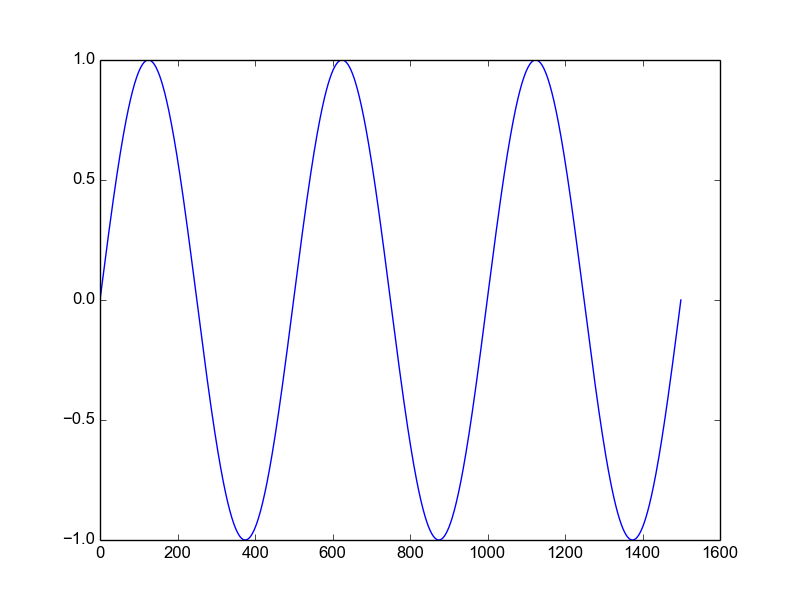
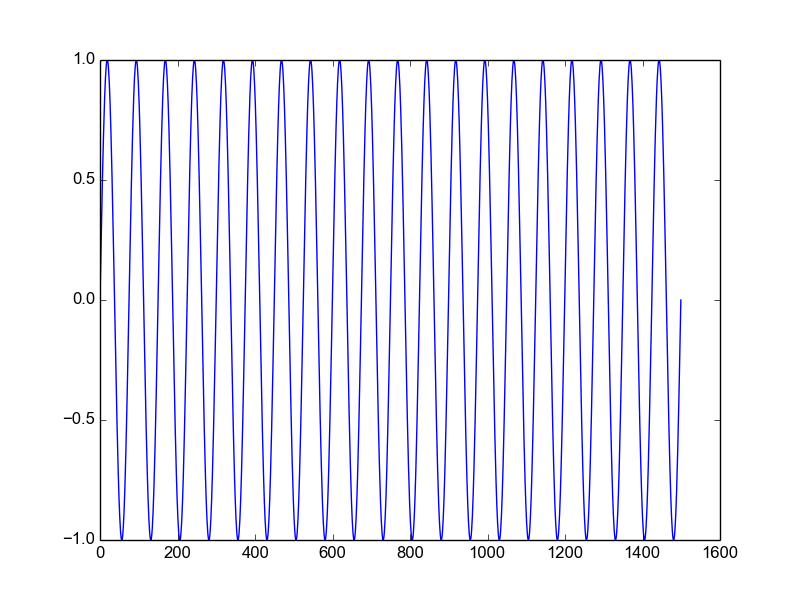
stacking

Changed region(s): [[0.125, 0.09, 0.875, 0.9]]

diff --git a/stack.py b/stack.py
@@ -191,7 +191,7 @@ def spectrum_logistic():
     plt.savefig("spectrum_logistic")
 
 def spectrum_sinusoid():
-    sinusoid = np.sin(np.linspace(0, 6 * np.pi, 1500))
+    sinusoid = np.sin(np.linspace(0, 40 * np.pi, 1500))
     f, Pxx = sci_sig.periodogram(sinusoid)
     plt.close()
     plt.loglog(f, np.sqrt(Pxx))
@@ -218,7 +218,7 @@ def plot_logistic():
     plt.savefig("plot_logistic")
 
 def plot_sinusoid():
-    sinusoid = np.sin(np.linspace(0, 6 * np.pi, 1500))
+    sinusoid = np.sin(np.linspace(0, 40 * np.pi, 1500))
     plt.close()
     plt.plot(sinusoid)
     plt.savefig("plot_sinusoid")
@@ -231,16 +231,24 @@ def plot_vr():
 
 
 def degree_fbm():
-    pass
+    fbm = np.load("quick_fbm.npy")[0:1500]
+    plt.close()
+    #######################
 
 def degree_logistic():
-    pass
+    logit = gen_logistic_map(1500)
+    plt.close()
+    #######################
 
 def degree_sinusoid():
-    pass
+    sinusoid = np.sin(np.linspace(0, 40 * np.pi, 1500))
+    plt.close()
+    #######################
 
 def degree_vr():
-    pass
+    vr = open_vr()
+    plt.close()
+    #######################
 
 
 def clustering_fbm():
